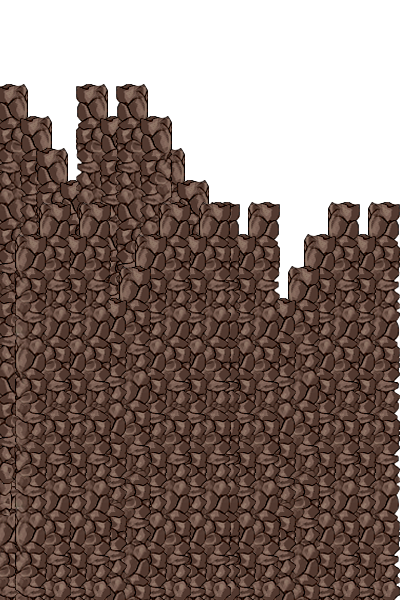
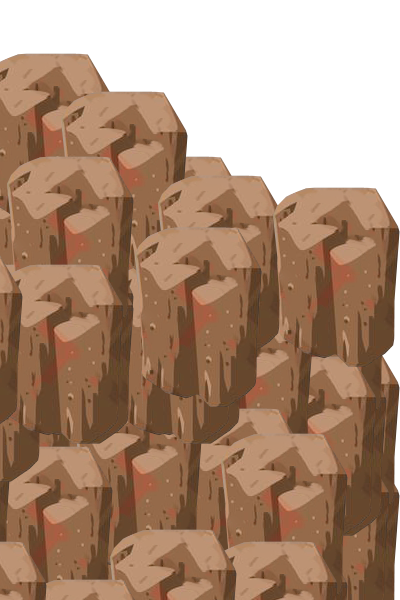
Art revamp

diff --git a/app.js b/app.js
@@ -37,7 +37,7 @@ function preload ()
     this.load.image('sky', 'assets/sky.png');
     this.load.image('ground', 'assets/platform.png');
     this.load.image('wall', 'assets/wall.png');
-    this.load.spritesheet('dude', 'assets/dude.png', { frameWidth: 57.26, frameHeight: 42 });
+    this.load.spritesheet('beecon', 'assets/beecon.png', { frameWidth: 250, frameHeight: 210 });
     this.load.image('mountains', 'assets/background2.png');
     this.load.image('mountains2', 'assets/background.png');
 }
@@ -50,8 +50,9 @@ function create ()
         this.add.image(i * 1024, 300, 'sky').setScrollFactor(0.1);
     }
     mountains = this.physics.add.staticGroup();
-    for (var i = -2; i <= 22; i++) {
-        mountains.create(i * 320, 320, 'mountains').setScale(2).refreshBody().setScrollFactor(0.2);
+    for (var i = 0; i <= 1; i++) {
+        mountains.create(i * 320, 330, 'mountains').setScale(2).refreshBody().setScrollFactor(0.2);
+        mountains.create(i * 320, 600, 'mountains').setScale(2).refreshBody().setScrollFactor(0.2);
     }
 
             // Set up fullscreen button
@@ -67,12 +68,6 @@ function create ()
     //  The platforms group contains the ground and the 2 ledges we can jump on
     platforms = this.physics.add.staticGroup();
 
-    //  Here we create the ground.
-    //  Scale it to fit the width of the game (the original sprite is 400x32 in size)
-    for (var i = 0; i < 5; i++) {
-        platforms.create(i * 300, 780, 'ground').setScale(2).refreshBody();
-    }
-
     //  Now let's create some ledges
     platforms.create(-300, 400, 'wall').setScale(1.5).refreshBody();
     platforms.create(500, 650, 'ground').setScale(0.8).refreshBody();
@@ -82,8 +77,15 @@ function create ()
     platforms.create(1530, 650, 'ground').setScale(0.8).refreshBody();
     platforms.create(1930, 650, 'ground').setScale(0.8).refreshBody();
 
+    //  Here we create the ground.
+    //  Scale it to fit the width of the game (the original sprite is 400x32 in size)
+    for (var i = -1; i < 6; i++) {
+        platforms.create(i * 240, 930, 'ground').setScale(2).refreshBody(); //300
+        platforms.create(i * 240, 780, 'ground').setScale(2).refreshBody(); //300
+    }
+
     // The player and its settings
-    player = this.physics.add.sprite(100, 0, 'dude'); // Set initial frame to face right
+    player = this.physics.add.sprite(100, 0, 'beecon').setScale(0.28); // Set initial frame to face right
 
     //  Player physics properties. Give the little guy a slight bounce.
     player.setBounce(0.2);
@@ -92,14 +94,14 @@ function create ()
     //  Our player animation, walking left and walking right.
     this.anims.create({
         key: 'left',
-        frames: this.anims.generateFrameNumbers('dude', { start: 0, end: 3 }),
+        frames: this.anims.generateFrameNumbers('beecon', { start: 0, end: 1 }),
         frameRate: 10,
         repeat: -1
     });
 
     this.anims.create({
         key: 'right',
-        frames: this.anims.generateFrameNumbers('dude', { start: 5, end: 8 }),
+        frames: this.anims.generateFrameNumbers('beecon', { start: 3, end: 4 }),
         frameRate: 10,
         repeat: -1
     });
@@ -120,11 +122,12 @@ function create ()
     // Set the initial camera position to the center of the world
     camera.scrollX = game.config.width * 2;
     camera.scrollY = 0;
-
+    /*
     mountains2 = this.physics.add.staticGroup();
-    for (var i = -2; i <= 22; i++) {
-        mountains2.create(i * 320, 630, 'mountains').setScale(2).refreshBody().setScrollFactor(0.7);
+    for (var i = 0; i <= 1; i++) {
+        mountains2.create(i * 320, 730, 'mountains').setScale(1.2).refreshBody().setScrollFactor(0.7);
     }
+    */
     
 
 }

diff --git a/index.html b/index.html
@@ -2,7 +2,7 @@
 <html lang="en"> 
     <head> 
         <meta charset="UTF-8" />
-        <title>My Platformer Game</title>
+        <title>Biome Exploration and Extraterrestrial Colonization Operating Network</title>
         <script src="//cdn.jsdelivr.net/npm/phaser@3.55.2/dist/phaser.js"></script>
         <link rel="stylesheet" type="text/css" href="styles.css">
     </head>
